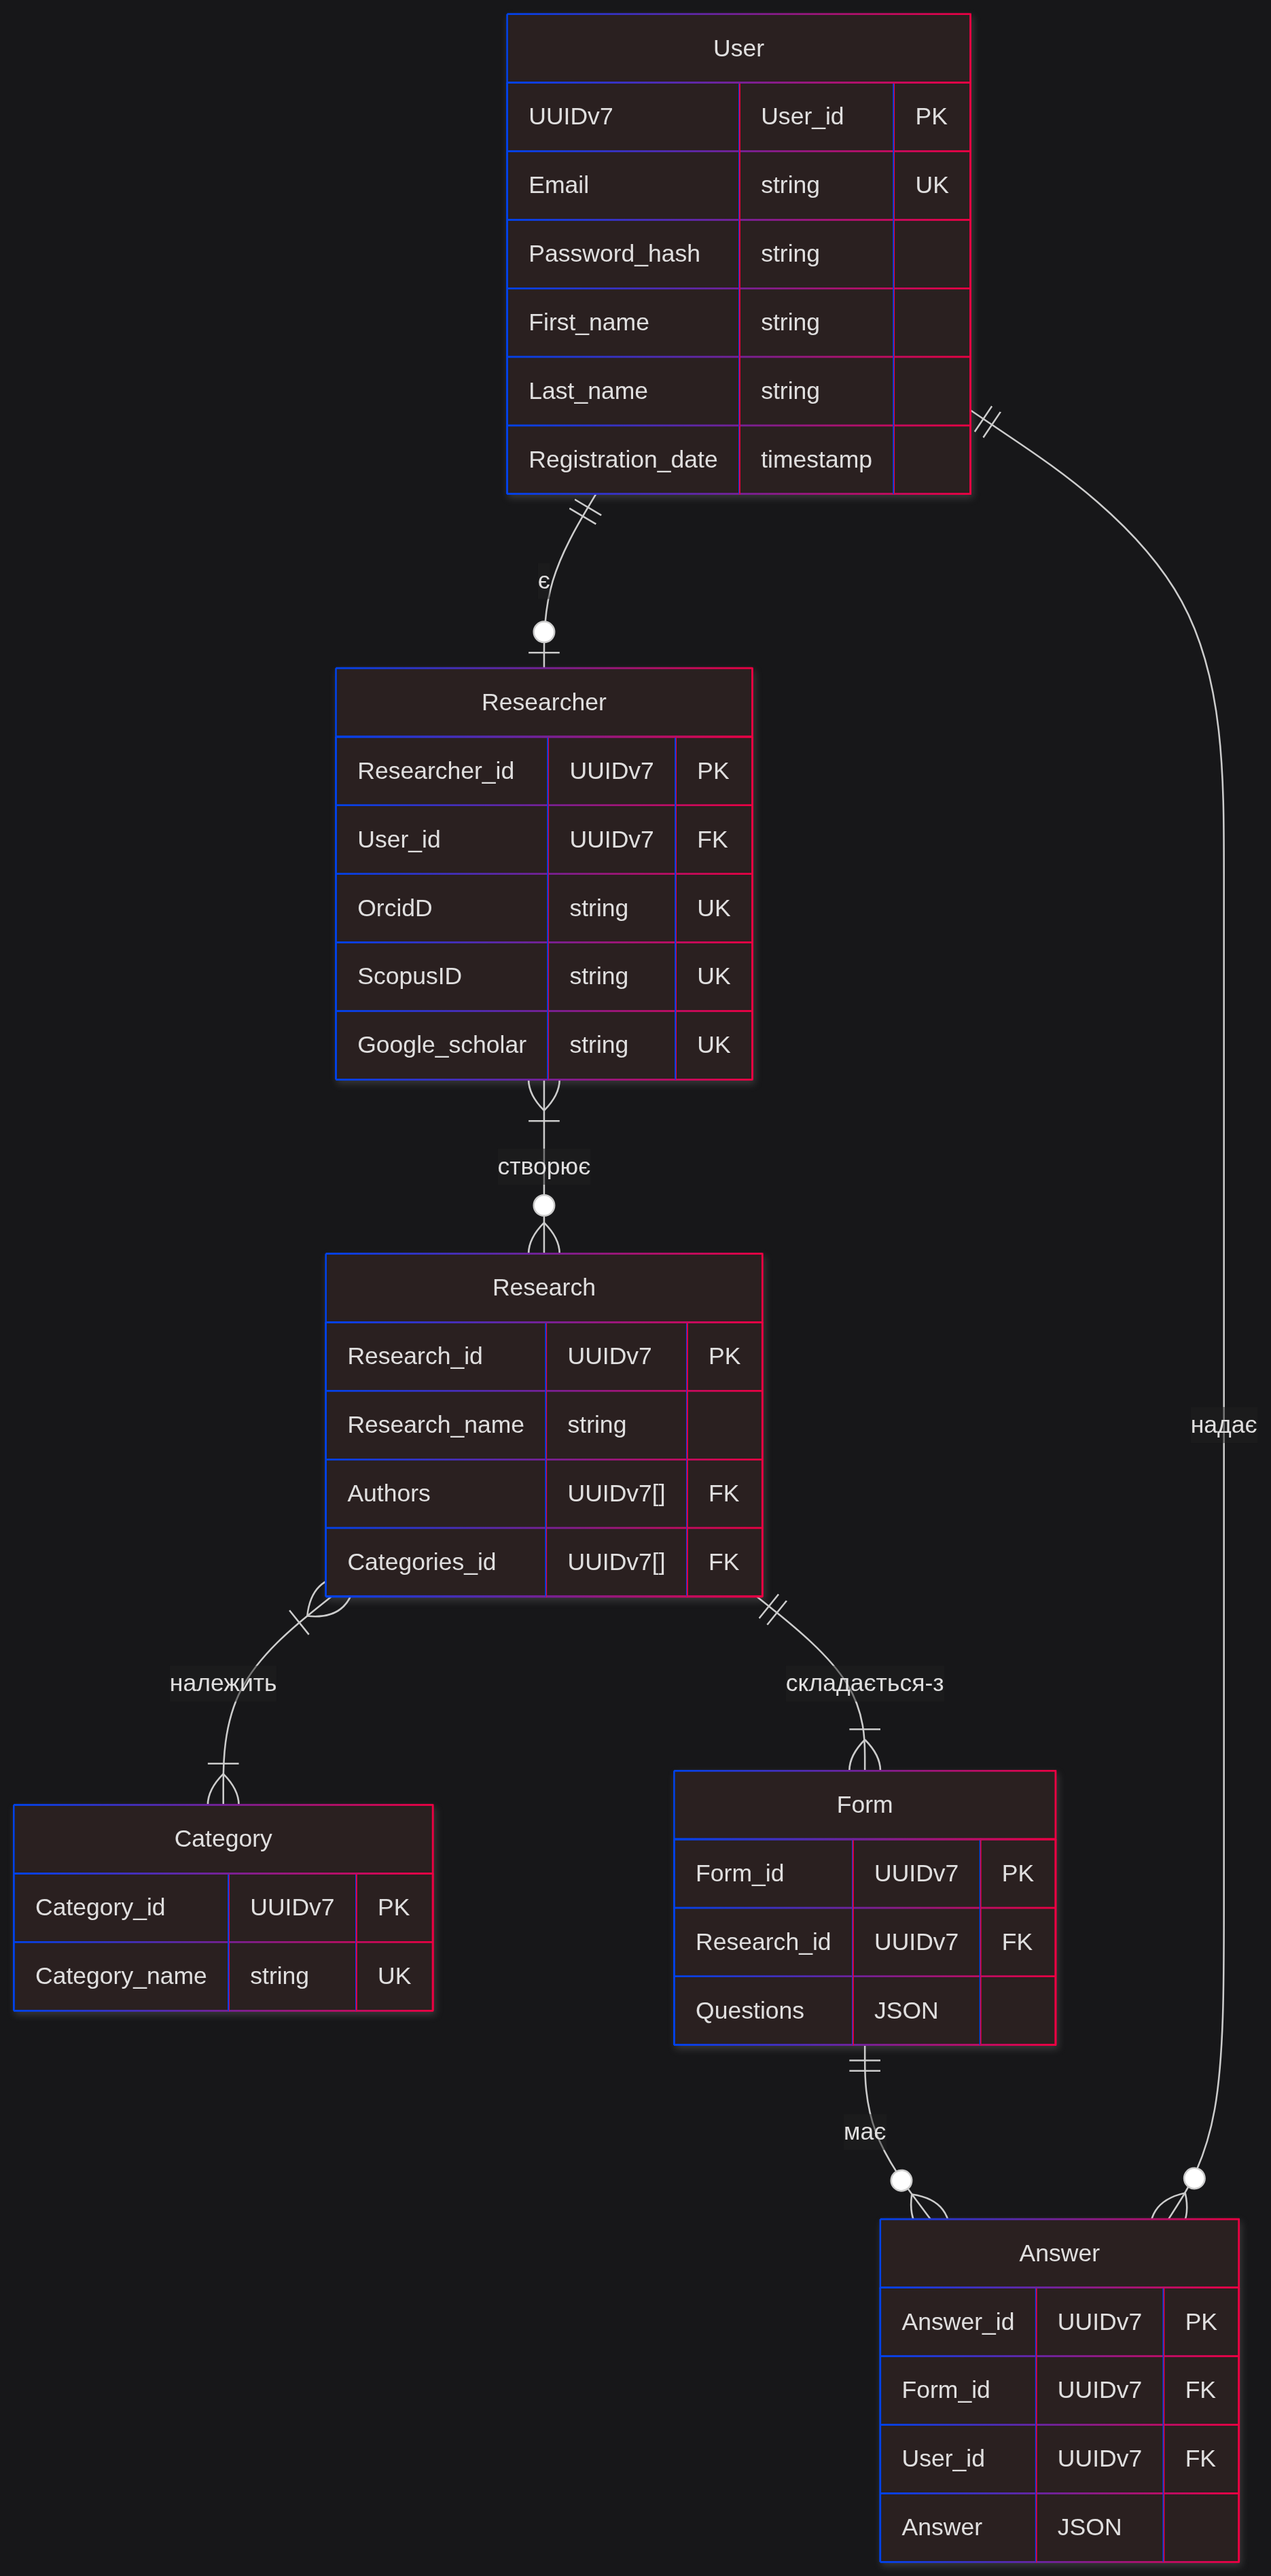
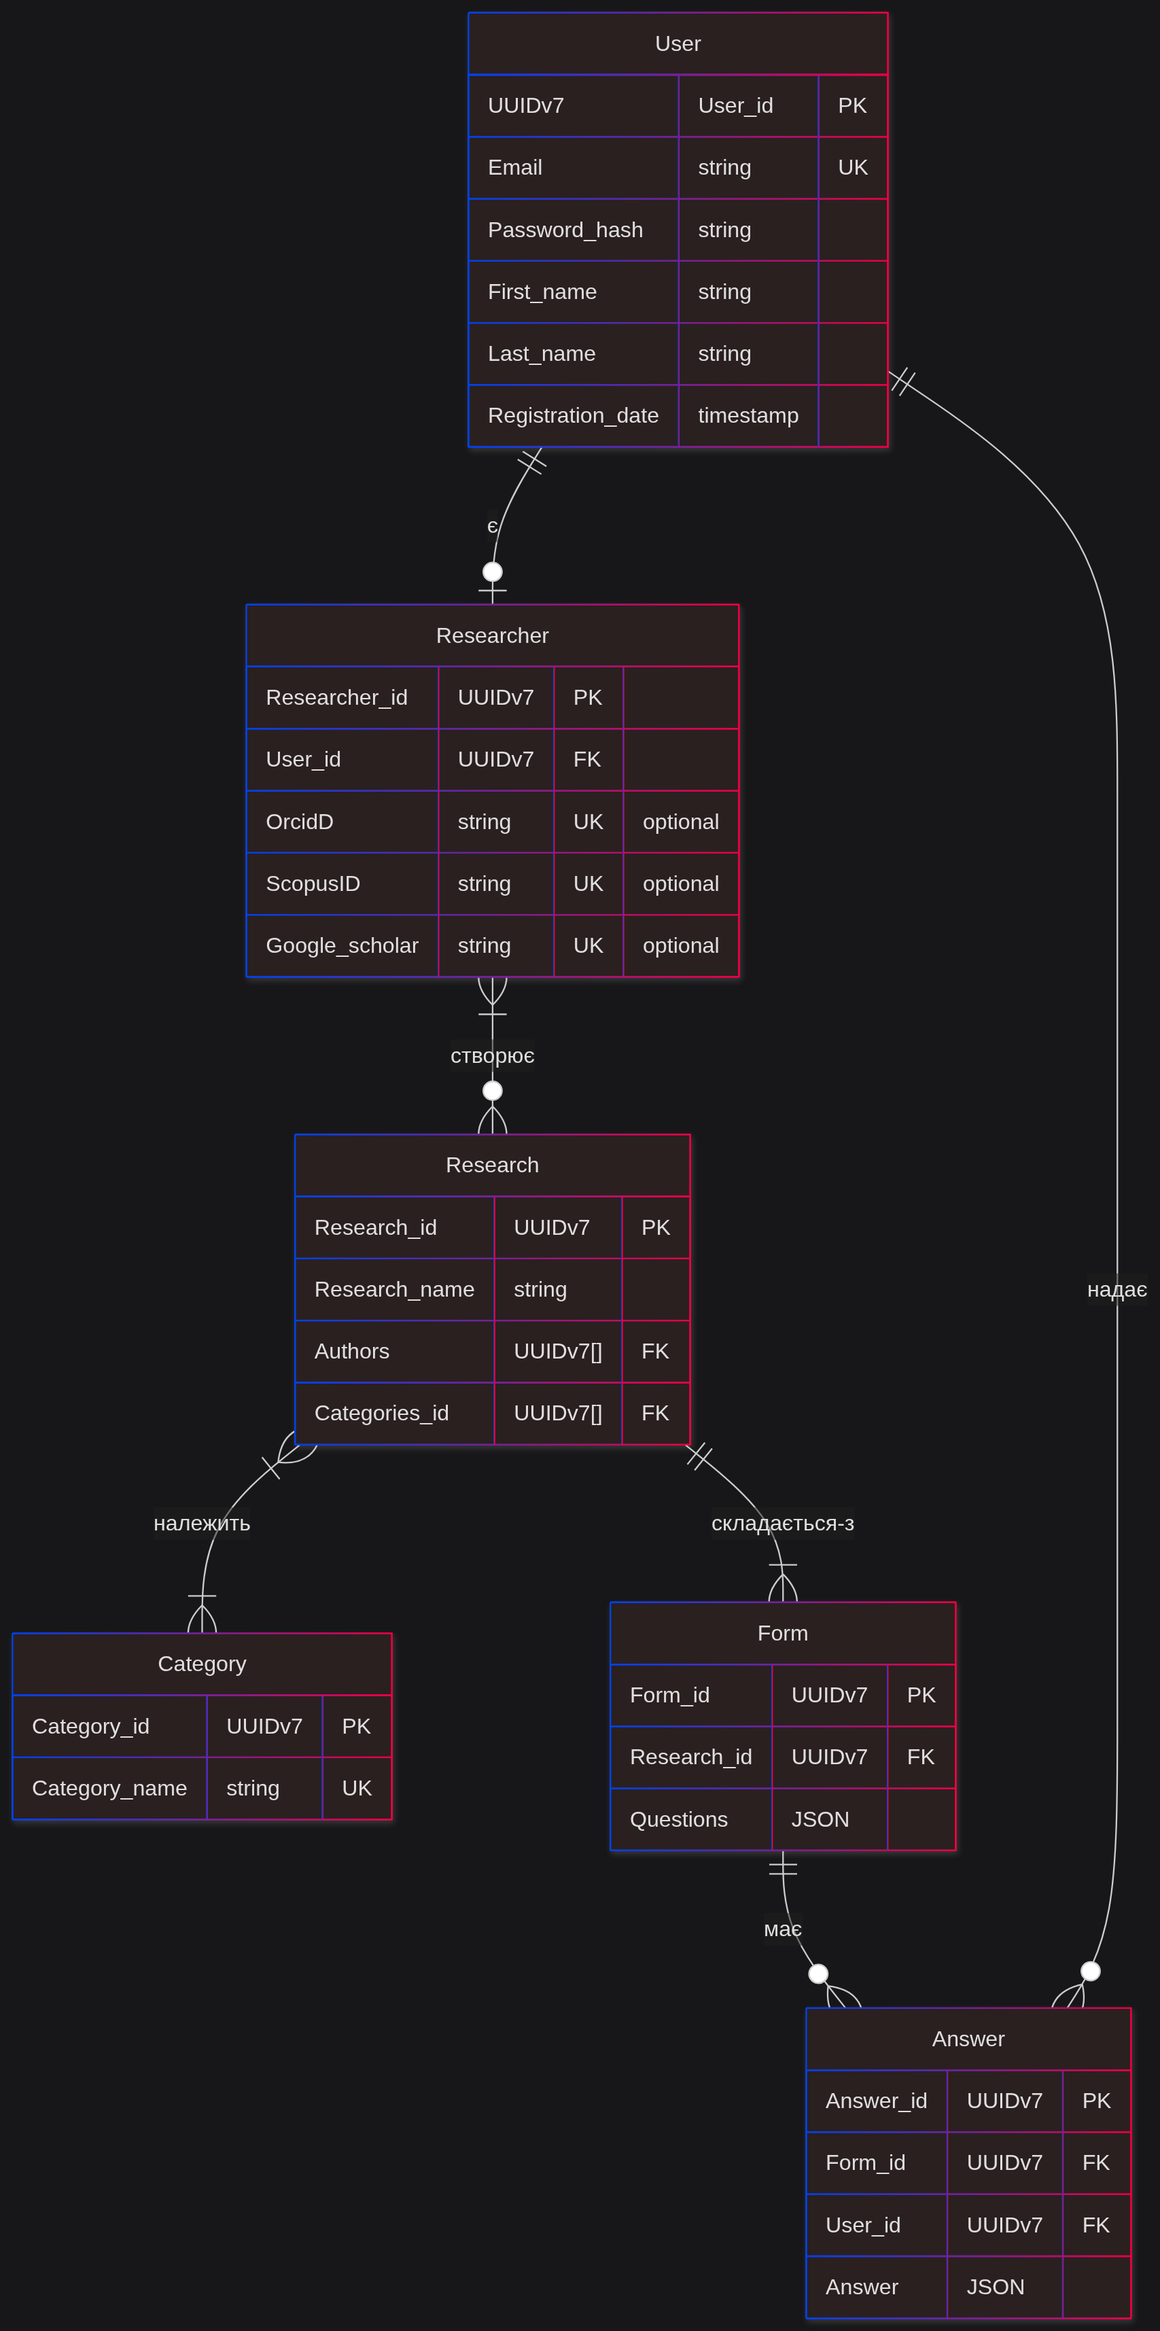
Added optional to field that are optional

diff --git a/Lab1/spec.md b/Lab1/spec.md
@@ -13,9 +13,9 @@
 
 - `Researcher_id`: UUIDv7 (PK)
 - `User_id`: UUIDv7 (FK)
-- `OrcidD`: string (UK)
-- `ScopusID`: string (UK)
-- `Google_scholar`: string (UK)
+- `OrcidD`: string (UK) optional
+- `ScopusID`: string (UK) optional
+- `Google_scholar`: string (UK) optional
 
 ### Research:
 
@@ -44,7 +44,7 @@
 
 # Зв'язки
 
-1. #### `User` -є- `Researcher` (1/1):
+1. #### `User` -є- `Researcher` (1/1):відповідає
    - Один користувач може бути пов'язаним з один дослідником (1:1)
 2. #### `Researcher` -створює- `Research` (1..N/0..N):
    - У дослідника є будь яка кількість досліджень (1:0..N)
